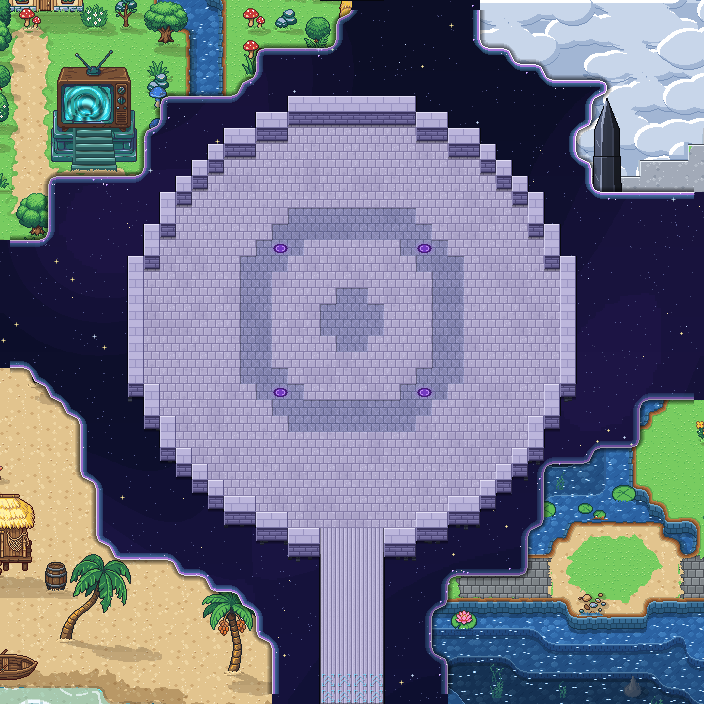
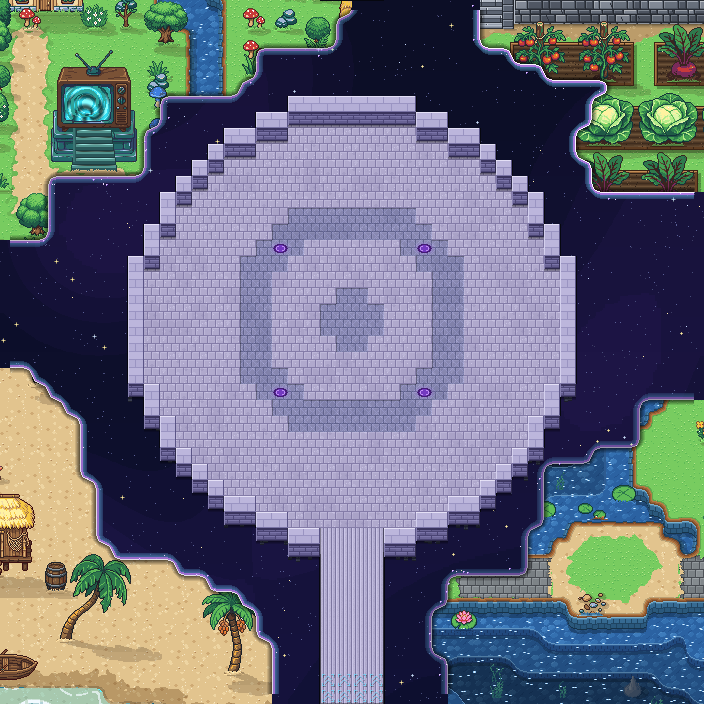
K33: Riss oben rechts zeigt die Felder von The Holy Peaks
Claude-Session: https://claude.ai/code/session_01SaoYHKhnro4LFcPJqjaPsq

Changed region(s): [[0.6562, 0.0, 1.0, 0.2812]]

diff --git a/tools/karte33_layout.py b/tools/karte33_layout.py
@@ -55,7 +55,7 @@ def main():
            'risse': [{'kante': [(0, 15.1), (2.8, 15), (3.1, 10.9), (9.4, 10.6), (10, 5.9), (15, 5.9), (16.6, 3.4),
                                 (20.6, 3.1), (22.2, 0)], 'ecke': (0, 0), 'karte': 'karte20', 'quelle': [50, 116]},
                      {'kante': [(30.6, 0), (30.9, 3.1), (35, 5), (38.8, 5.9), (36.9, 8.8), (37.5, 11.6), (44, 11.9)],
-                      'ecke': (44, 0), 'karte': 'karte07', 'quelle': [480, 0]},
+                      'ecke': (44, 0), 'karte': 'karte07', 'quelle': [500, 1080]},   # Felder (Nutzer)
                      {'kante': [(0, 23.8), (1.6, 23.8), (5.3, 26.9), (6.3, 33.8), (9.4, 35.6), (10.6, 36.3), (14.7, 38.1),
                                 (16.6, 40.6), (16.6, 44)], 'ecke': (0, 44), 'karte': 'karte25', 'quelle': [440, 400]},
                      {'kante': [(44, 25.6), (40.9, 25.9), (40.6, 27.5), (35, 30), (34, 35.6), (29.4, 36.6), (28.4, 40),
